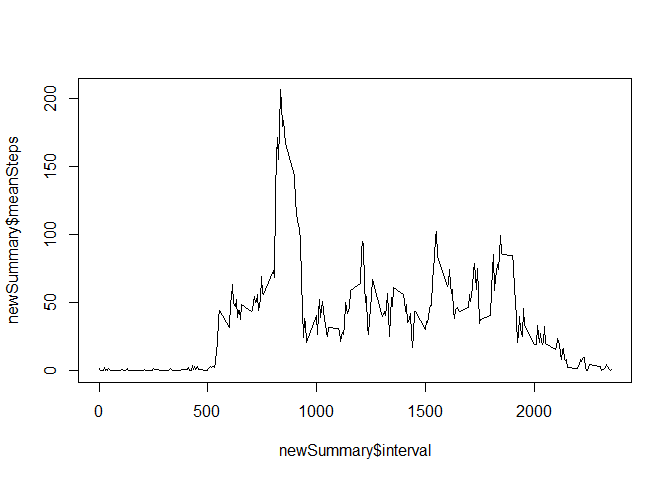
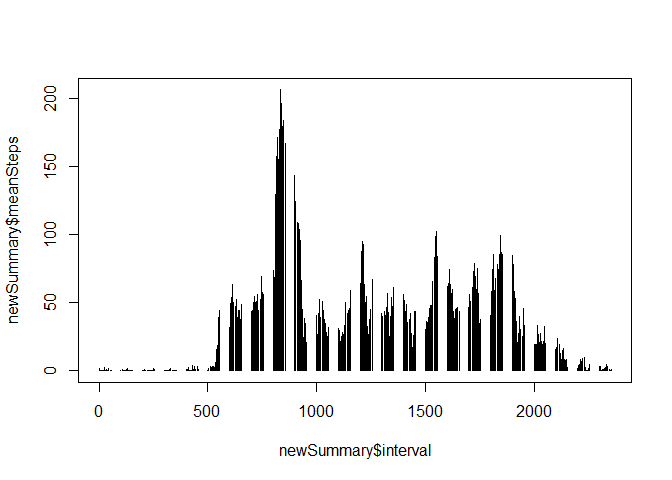
assignment solution

Changed region(s): [[0.2812, 0.2188, 0.9062, 0.7812]]

diff --git a/PA1_template.html b/PA1_template.html
@@ -125,8 +125,8 @@ head(newData)</code></pre>
 ## 6 2.0943396 2012-10-01       25</code></pre>
 <p>Making a histogram of the total number of steps taken each day and Calculating the mean and median total number of steps taken per day, to illustrate the difference w.r.t original dataa</p>
 <pre class="r"><code> newSummary &lt;- ddply (newData, .(interval), summarize, meanSteps = mean(steps, na.rm=TRUE))
-plot(newSummary$interval, newSummary$meanSteps, type ='l')</code></pre>
[1 lines of base64/hex data omitted]
+plot(newSummary$interval, newSummary$meanSteps, type ='h')</code></pre>
[1 lines of base64/hex data omitted]
 <pre class="r"><code>summary(newSummary)</code></pre>
 <pre><code>##     interval        meanSteps      
 ##  Min.   :   0.0   Min.   :  0.000  

diff --git a/PA1_template.md b/PA1_template.md
@@ -123,7 +123,7 @@ Making a histogram of the total number of steps taken each day and Calculating t
 
 ```r
  newSummary <- ddply (newData, .(interval), summarize, meanSteps = mean(steps, na.rm=TRUE))
-plot(newSummary$interval, newSummary$meanSteps, type ='l')
+plot(newSummary$interval, newSummary$meanSteps, type ='h')
 ```
 
 ![](PA1_template_files/figure-html/unnamed-chunk-10-1.png) 
